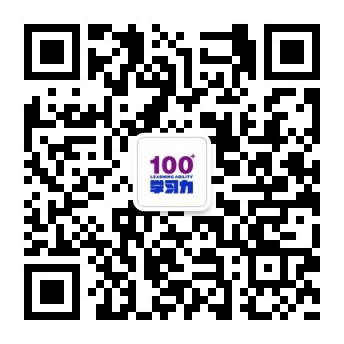
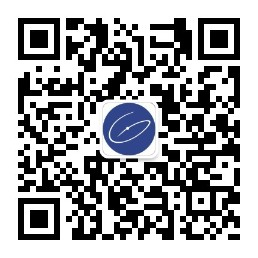
更新二维码及地址

diff --git a/contact.html b/contact.html
@@ -62,7 +62,7 @@
                         <br />
                     </p>
                     <p class="MsoNormal" style="text-indent:2em;font-size:16px;">
-                        <b><span style="font-family:Tahoma;font-size:18px;"><strong>公司地址：</strong></span></b><span style="font-family:Tahoma;font-size:18px;"><strong>北京市朝阳区高碑店联信国际大厦B座208室</strong></span>
+                        <b><span style="font-family:Tahoma;font-size:18px;"><strong>公司地址：</strong></span></b><span style="font-family:Tahoma;font-size:18px;"><strong>北京市朝阳区光华路丙12号数码01大厦901室</strong></span>
                     </p>
                     <p class="MsoNormal" style="text-indent:2em;font-size:16px;">
                         <b><span style="font-family:Tahoma;font-size:18px;"><strong>官方微信：</strong></span></b><span style="font-family:Tahoma;font-size:18px;"><strong>壹佰加学习力</strong></span>
@@ -97,7 +97,7 @@
                 <span id="sp1">北京壹佰加教育科技有限公司</span>
                 <span id="sp2">服务热线：010-5247-6376</span>
 
-                <span id="sp4">公司地址：北京市朝阳区高碑店联信国际大厦B座208室</span>
+                <span id="sp4">公司地址：北京市朝阳区光华路丙12号数码01大厦901室</span>
             </div>
             <div class="foot_m3">
                 <span>微信扫码，关注我们</span>
@@ -108,7 +108,7 @@
         </div>
     </div>
     <div class="copyright">
-        Copyright © 2017 北京壹佰加教育科技有限公司版权所有 All rights reserved. 京ICP备11036519号-1 技术支持：<a href="">象牙网络</a>
+        Copyright © 2019 北京壹佰加教育科技有限公司版权所有 All rights reserved. 京ICP备11036519号-1 技术支持：<a href="">象牙网络</a>
     </div>
 
     <script>

diff --git a/excellence.html b/excellence.html
@@ -77,7 +77,7 @@
             <div class="foot_m2">
                 <span id="sp1">北京壹佰加教育科技有限公司</span>
                 <span id="sp2">服务热线：010-5247-6376</span>
-                <span id="sp4">公司地址：北京市朝阳区高碑店联信国际大厦B座208室</span>
+                <span id="sp4">公司地址：北京市朝阳区光华路丙12号数码01大厦901室</span>
             </div>
             <div class="foot_m3">
                 <span>微信扫码，关注我们</span>
@@ -87,7 +87,7 @@
         </div>
     </div>
     <div class="copyright">
-        Copyright © 2017 北京壹佰加教育科技有限公司版权所有 All rights reserved. 京ICP备11036519号-1 技术支持：<a href="">象牙网络</a>
+        Copyright © 2019 北京壹佰加教育科技有限公司版权所有 All rights reserved. 京ICP备11036519号-1 技术支持：<a href="">象牙网络</a>
     </div>
     <script>
         var _hmt = _hmt || [];

diff --git a/index.html b/index.html
@@ -110,8 +110,7 @@
             <div class="foot_m2">
                 <span id="sp1">北京壹佰加教育科技有限公司</span>
                 <span id="sp2">服务热线：010-5247-6376</span>
-
-                <span id="sp4">公司地址：北京市朝阳区高碑店联信国际大厦B座208室</span>
+                <span id="sp4">公司地址：北京市朝阳区光华路丙12号数码01大厦901室</span>
             </div>
             <div class="foot_m3">
                 <span>微信扫码，关注我们</span>
@@ -122,7 +121,7 @@
         </div>
     </div>
     <div class="copyright">
-        Copyright © 2017 北京壹佰加教育科技有限公司版权所有 All rights reserved. 京ICP备11036519号-1 技术支持：<a href="#">象牙网络</a>
+        Copyright © 2019 北京壹佰加教育科技有限公司版权所有 All rights reserved. 京ICP备11036519号-1 技术支持：<a href="#">象牙网络</a>
     </div>
 
     <script>

diff --git a/aboutus.html b/aboutus.html
@@ -162,7 +162,7 @@
                 <span id="sp1 ">北京壹佰加教育科技有限公司</span>
                 <span id="sp2 ">服务热线：010-5247-6376</span>
 
-                <span id="sp4 ">公司地址：北京市朝阳区高碑店联信国际大厦B座208室</span>
+                <span id="sp4 ">公司地址：北京市朝阳区光华路丙12号数码01大厦901室</span>
             </div>
             <div class="foot_m3 ">
                 <span>微信扫码，关注我们</span>
@@ -173,7 +173,7 @@
         </div>
     </div>
     <div class="copyright ">
-        Copyright © 2017 北京壹佰加教育科技有限公司版权所有 All rights reserved. 京ICP备11036519号-1 技术支持：<a href=" ">象牙网络</a>
+        Copyright © 2019 北京壹佰加教育科技有限公司版权所有 All rights reserved. 京ICP备11036519号-1 技术支持：<a href=" ">象牙网络</a>
     </div>
 
     <script>

diff --git a/about100+.html b/about100+.html
@@ -154,7 +154,7 @@
                 <span id="sp1">北京壹佰加教育科技有限公司</span>
                 <span id="sp2">服务热线：010-5247-6376</span>
 
-                <span id="sp4">公司地址：北京市朝阳区高碑店联信国际大厦B座208室</span>
+                <span id="sp4">公司地址：北京市朝阳区光华路丙12号数码01大厦901室</span>
             </div>
             <div class="foot_m3">
                 <span>微信扫码，关注我们</span>
@@ -165,7 +165,7 @@
         </div>
     </div>
     <div class="copyright">
-        Copyright © 2017 北京壹佰加教育科技有限公司版权所有 All rights reserved. 京ICP备11036519号-1 技术支持：<a href="">象牙网络</a>
+        Copyright © 2019 北京壹佰加教育科技有限公司版权所有 All rights reserved. 京ICP备11036519号-1 技术支持：<a href="">象牙网络</a>
     </div>
 
     <script>

diff --git a/aboutme.html b/aboutme.html
@@ -135,7 +135,7 @@
                 <span id="sp1">北京壹佰加教育科技有限公司</span>
                 <span id="sp2">服务热线：010-5247-6376</span>
 
-                <span id="sp4">公司地址：北京市朝阳区高碑店联信国际大厦B座208室</span>
+                <span id="sp4">公司地址：北京市朝阳区光华路丙12号数码01大厦901室</span>
             </div>
             <div class="foot_m3">
                 <span>微信扫码，关注我们</span>
@@ -146,7 +146,7 @@
         </div>
     </div>
     <div class="copyright">
-        Copyright © 2017 北京壹佰加教育科技有限公司版权所有 All rights reserved. 京ICP备11036519号-1 技术支持：<a href="">象牙网络</a>
+        Copyright © 2019 北京壹佰加教育科技有限公司版权所有 All rights reserved. 京ICP备11036519号-1 技术支持：<a href="">象牙网络</a>
     </div>
 
     <script>

diff --git a/feature.html b/feature.html
@@ -117,7 +117,7 @@
                 <span id="sp1">北京壹佰加教育科技有限公司</span>
                 <span id="sp2">服务热线：010-5247-6376</span>
 
-                <span id="sp4">公司地址：北京市朝阳区高碑店联信国际大厦B座208室</span>
+                <span id="sp4">公司地址：北京市朝阳区光华路丙12号数码01大厦901室</span>
             </div>
             <div class="foot_m3">
                 <span>微信扫码，关注我们</span>
@@ -128,7 +128,7 @@
         </div>
     </div>
     <div class="copyright">
-        Copyright © 2017 北京壹佰加教育科技有限公司版权所有 All rights reserved. 京ICP备11036519号-1 技术支持：<a href="">象牙网络</a>
+        Copyright © 2019 北京壹佰加教育科技有限公司版权所有 All rights reserved. 京ICP备11036519号-1 技术支持：<a href="">象牙网络</a>
     </div>
 
     <script>
